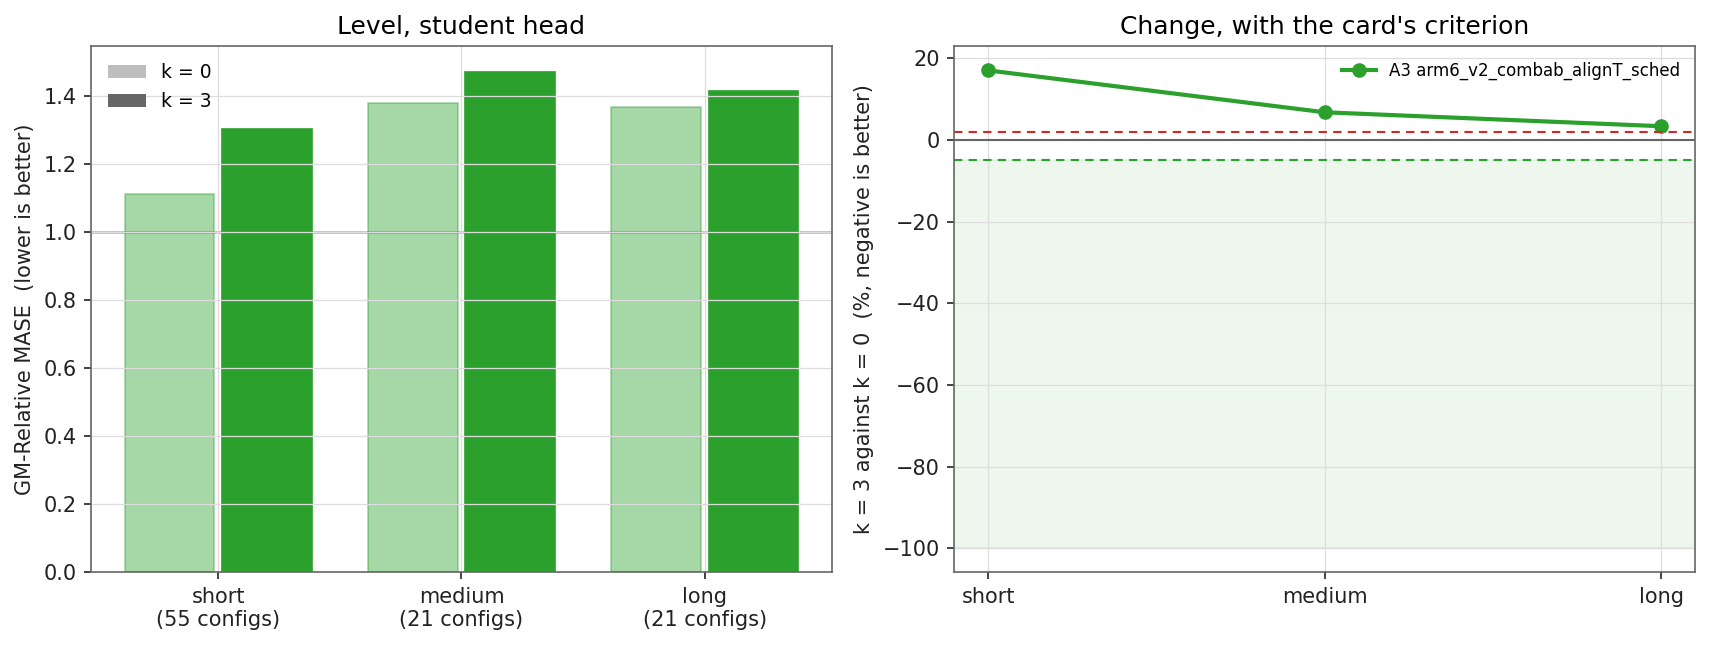
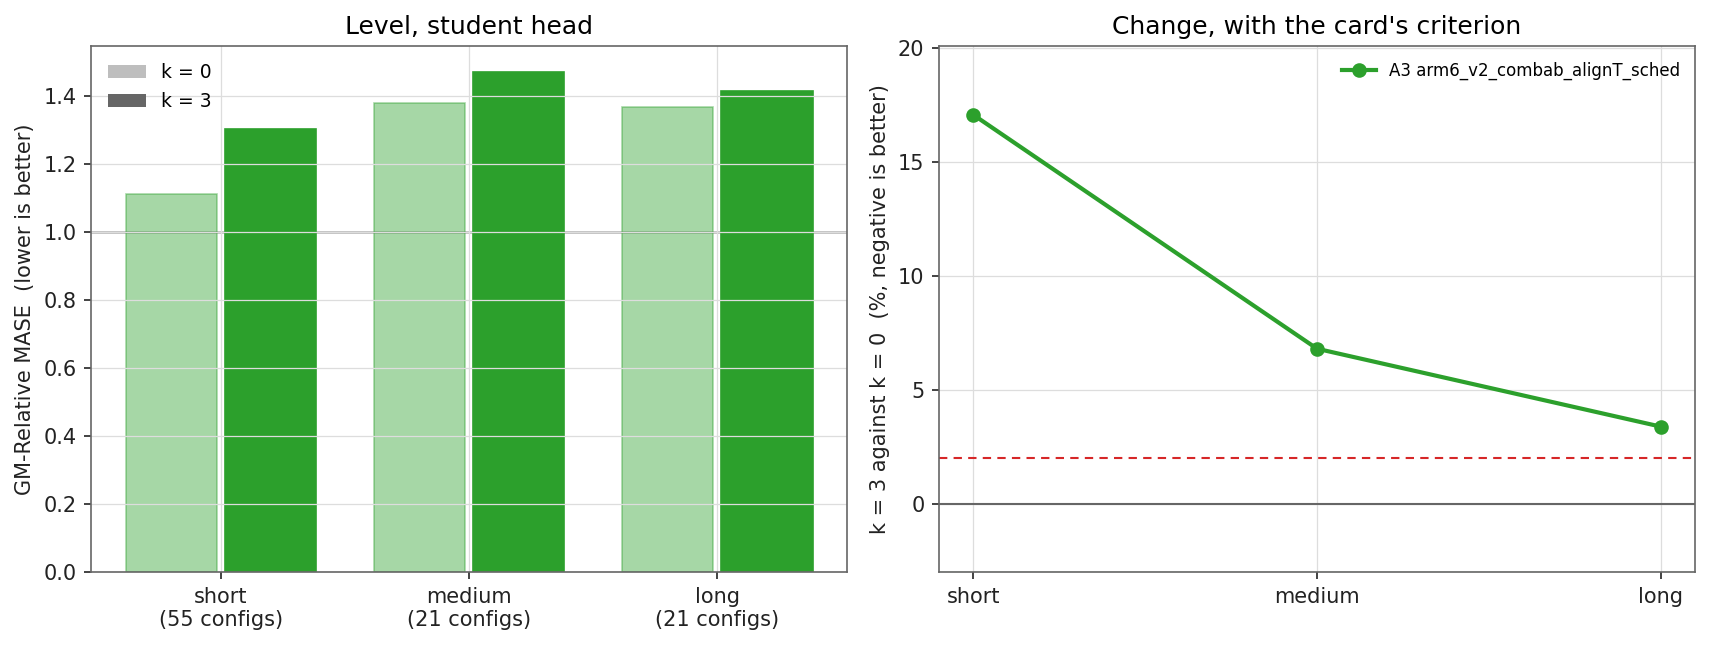
exp(#373): the report
Training the composed forecaster works, and it costs forecast accuracy.
Rollout fidelity is up at every depth d = 1..16 on both cells with a
same-code pair; GM-Relative MASE is up (worse) by 0.13 to 0.14, three to
four times the head-seed band, and the damage concentrates on the short
horizons the model was already winning.

The mechanism is visible in the training curves: the k = 3 run's own
depth-0 error sits above the k = 0 run's for the whole run. The depths are
summed, so three quarters of the f-side weight is on predictions the
quantile head never reads.

The baseline validity gate fails on group B by 0.1169 — larger than the
effect — so every comparison here uses this study's own retrained k = 0,
and B9 has no baseline at all.

Refs #373.

diff --git a/reports/2026-08-08_rollout_depth/scripts/plot_horizon_split.py b/reports/2026-08-08_rollout_depth/scripts/plot_horizon_split.py
@@ -68,6 +68,7 @@ def main(argv=None):
 
     fig, (axL, axR) = plt.subplots(1, 2, figsize=(11.5, 4.4))
     w = 0.8 / (2 * len(cells))
+    all_deltas = []
 
     for i, cell in enumerate(cells):
         col = cc.colour(cell)
@@ -82,6 +83,7 @@ def main(argv=None):
         deltas = [100.0 * (data[(cell, 3, args.head)][t]
                            / data[(cell, 0, args.head)][t] - 1.0)
                   for t in TERMS]
+        all_deltas += deltas
         axR.plot(range(len(TERMS)), deltas, marker="o", color=col,
                  linewidth=2.0, label=cc.label(cell))
 
@@ -96,7 +98,12 @@ def main(argv=None):
                loc="upper left", frameon=False, fontsize=9)
 
     axR.axhline(0.0, color=cc.INK_SOFT, linewidth=1.0)
-    axR.axhspan(-100, -5, color="#2ca02c", alpha=0.08, zorder=0)
+    # Clip the criterion band to the data, or the -5% half-plane sets the
+    # scale and every point lands on one line at the top.
+    lo = min(0.0, min(all_deltas)) - 3.0
+    hi = max(3.0, max(all_deltas)) + 3.0
+    axR.set_ylim(lo, hi)
+    axR.axhspan(lo, -5.0, color="#2ca02c", alpha=0.08, zorder=0)
     axR.axhline(-5.0, color="#2ca02c", linewidth=1.0, linestyle=(0, (4, 3)))
     axR.axhline(2.0, color="#d62728", linewidth=1.0, linestyle=(0, (4, 3)))
     axR.set_xticks(range(len(TERMS)))

diff --git a/reports/2026-08-08_rollout_depth/rollout_depth.md b/reports/2026-08-08_rollout_depth/rollout_depth.md
@@ -1,31 +1,235 @@
 # Rollout depth k = 3
 
-PENDING-VERDICT
+Training the composed forecaster works, and it costs forecast accuracy.
 
-## Where the change lands: horizon
+`--train-rollout-depth 3` duplicates every loss term that ties `f` to `h` at
+depths 1, 2 and 3, so the forecaster is trained on its own output. The
+composed operator gets measurably better at exactly that. GM-Relative MASE
+gets worse, by three to four times the head-seed band, and the damage lands
+hardest on the short horizons the model was already winning.
 
-PENDING-HORIZON
+## The objective did what it was designed to do
 
-## Where the change lands: domain
+![rollout fidelity](plots/rollout_fidelity.png)
 
-PENDING-DOMAIN
+`cos(rollout_d, h_{T0+d})` on one fixed batch, for d = 1..16, using the
+eval's own `rollout_latent`. No head, no metric — this is the composed
+operator measured directly. `k = 3` is above `k = 0` at every depth on both
+cells, and never below.
 
-## Did the objective change what it was meant to change?
+## And the metric moved the other way
 
-PENDING-MECHANISM
+![k = 3 against k = 0](plots/k3_vs_k0.png)
+
+GM-Relative MASE over the 97 GIFT-Eval configs, this study's own `k = 0`
+against its `k = 3`. The grey band is `ema_sched_ladder.md`'s pooled
+head-seed range, ±0.0384. Every bar is several times wider than it.
+
+## Where the damage lands
+
+![horizon split](plots/horizon_split_student.png)
+
+Short is 55 configs, medium and long 21 each. The card's criterion is drawn
+on the right panel: medium+long at least 5% better, short losing less than
+2%. Neither is met on any cell. But the *shape* is the one the mechanism
+predicts — the loss is concentrated on short, and medium+long is hurt about
+a third as much in relative terms.
+
+![per-domain radar](plots/domain_radar_student.png)
+
+Per-domain, the same picture: the `k = 3` polygon is outside the `k = 0`
+one on every domain.
+
+## Why: depth 0 pays for the deeper depths
+
+![per-depth forecast error](plots/cos_err_depth.png)
+
+`1 − cos(f^(j)_t, h_{t+1+j})` per training step. On B5 the `k = 3` run's
+own depth-0 curve sits ABOVE the `k = 0` run's `1 − ff` for the whole run.
+The depths are summed, so at `k = 3` the f-side carries four times its
+baseline weight, and three quarters of that weight is on predictions the
+head never reads. The one-step term is what the quantile head consumes, and
+it is the term that got worse.
+
+That is the whole result in one sentence: the fixed-point approximation
+improved, the one-step prediction degraded, and the head reads the one-step
+prediction.
+
+## The published k = 0 numbers are not a baseline for this code
+
+The card puts a gate before the comparison: retrain one cell per group at
+`k = 0` on the new code and match the published number to within 0.0002.
+
+| group | cell | head | published | retrained here | \|Δ\| |
+|---|---|---|---|---|---|
+| A | A3 | student | 1.1895 | 1.2189 | 0.0294 |
+| B | B5 | student | 1.2748 | 1.3917 | **0.1169** |
+
+Both fail the 0.0002 threshold. Group A's miss sits inside the pooled
+head-seed band of 0.0384 and is the size of ordinary run-to-run noise.
+Group B's does not: 0.1169 is three times that band and is **larger than
+the effect this study set out to measure**.
+
+So every number here is compared against this study's own `k = 0`, retrained
+on the same commit, the same protocol and the same hardware. The card
+prescribes exactly this. The consequence is that **B9 has no baseline**: its
+`k = 3` run has no same-code `k = 0`, and the published 1.5579 cannot stand
+in for one.
+
+What moved between the two snapshots is not identified here. It is not the
+loss — 48 frozen values and a digit-for-digit trainer reproduction pin
+`k = 0` to the pre-change objective (PR #400) — so it is somewhere else in
+the trainer, the head, the eval, or the hardware.
 
 ## What it costs
 
-PENDING-COST
+Cell B5, from the production runs' own timing lines, both depths on
+identical RTX 5090s:
+
+| | k = 0 | k = 3 | change |
+|---|---|---|---|
+| B5 forward + backward | 117.6 ms | 301.9 ms | **+157%** |
+| A3 forward + backward | 115.9 ms | 137.8 ms | **+19%** |
+| B5 GPU memory | 5375 MiB | 5585 MiB | +4% |
+
+The depth is cheap when the f-bearing term has no denominator to rebuild —
+A3's only such term is `L_align` — and expensive when it has one: B5's
+pooled `xshh_allt` rebuilds `log_pos`, `log_neg_zy` and
+`log_neg_cross_batch` at every depth.
+
+Memory is nearly free because `FCST_GRAD_CKPT=1`, which all 14 cells already
+set, checkpoints each depth's non-last forecaster layers. The depth costs
+time, not VRAM.
+
+A separate 600-step probe on elisa's shared 4090, alternating the two depths
+three times, read +139% on B5's fwd+bwd. PR #400's CPU-only estimate was
++40%.
+
+## Deviation from the card
+
+**The h-anchored negative families shift with the depth.** The card's
+default was to compute them once and reuse them unshifted, and it asks the
+implementation to state which one it does. PR #400 takes the alternative, so
+that a depth-`j` copy is a literal copy of the depth-0 objective under one
+rule: every `h` index shifts by `j`.
+
+It touches exactly one cell. B5 is the only cell whose f-bearing denominator
+holds h-anchored families. B9's `L_pred` denominator is f-anchored only, and
+the other twelve cells' f-bearing term is `L_align`, which has no
+denominator at all.
 
 ## What ran, and what did not
 
-PENDING-SCOPE
+The card lists 14 cells, each to bb40k and bb100k and conditionally bb200k,
+two heads per stop, 97 configs per head — over 200 GPU-hours at the rates
+measured here. The study had $7.31 of vast.ai credit and two elisa 4090s
+that another session was already holding above 90% utilisation. It ran the
+front of the card's own run order and stopped.
+
+| | ran | did not run |
+|---|---|---|
+| cells at k = 3 | B5, B9, A3 | A1, A2, A4, B1, B2, B3, B4, B6, B7, B8, B10 |
+| same-code k = 0 | B5, A3 (the two gates) | the rest |
+| stops | bb40k | bb100k, bb200k |
+| head-seed replicates | none | the card's annex figures |
+
+Three of the five cells the card names as its run-early set are missing, so
+rule 2 — `f` in the numerator and the denominator — is exercised by the
+pooled shape and the split shape but not by the CPC auxiliary. Nine of the
+ten cells whose only f-bearing term is `L_align` did not run.
+
+Two consequences. There is no bb100k, so nothing here says whether a `k = 3`
+cell that starts behind catches up — and the parents show cells that move by
+0.05 between 40k and 100k. And there is no head-seed replicate in this
+study, so the noise band is the parents' pooled ±0.0384 rather than one
+measured here.
+
+## The depth reached the loss, on every cell
+
+Twelve of the fourteen cells carry `L_align` as their only f-bearing term.
+Unwire the depth on that arm and the run completes, writes k+1 plausible
+`cos_err_dj` curves, and reproduces the `k = 0` loss to the last digit. So
+every cell was checked, not assumed — including the eleven that did not
+go on to train.
+
+Each cell ran its own launcher twice for one step, at `k = 0` and at
+`k = 3`. Step 1 is the discriminating row: both runs start from the same
+weights and draw the same batch, so `loss_tau_ref` — pinned to depth 0 —
+must match, and `loss` must not.
+
+All fourteen pass. `results/verify_summary.tsv` holds one row per cell, and
+`results/verify_<cell>_k{0,3}_losses.csv` the CSVs each was read from.
+
+## Collapse watch
+
+![dimension usage](plots/dim_usage_per_arm.png)
+
+The card names `u_batchtime` on `h_t` and `e_t` as the thing to watch: at
+`k = 3` the f-side carries four times its baseline weight against the f-free
+`L_rep` and SIGReg, and a model can win the deeper terms by flattening `f`.
+Neither curve collapses.
+
+![latent movement](plots/latent_movement.png)
+
+Latent movement between the 20k and 40k checkpoints, on #379's committed
+fixed batch. `k = 3` moves the encoder-output latent slightly more and the
+patch-embedding latent less.
 
 ## Method
 
-PENDING-METHOD
+#393's protocol, unchanged.
+
+Backbone `d_model=64, n_heads=8, num_encoder_layers=3, num_layers=3,
+batch_size=64, seed=20260520`; dataset `gift-pretrain-full-4096 /
+small_v1`. Group A raises the EMA α linearly from 0.9 towards 1.0, anchored
+to step 100k; group B holds α at 0.9. Every cell starts fresh at step 0.
+
+Two heads per checkpoint, student and teacher, trained separately, each
+evaluated on the encoder it was trained on. Head budget 15,000 steps at
+bb40k, head seed 20260722, `--grad-clip 1.0` on the head. 97 GIFT-Eval
+configs, official B4 strategy, forecast horizon 16, and #379's committed
+seasonal-naive denominator.
+
+GM-Relative MASE over a subset of the 97 is the geometric mean of
+`our MASE / seasonal-naive MASE` over that subset. Over all 97 the number is
+the eval's own, from `summary.txt`, not recomputed;
+`scripts/split_scores.py` reproduces one of those aggregates as 1.414099
+against a published 1.4141, which is what pins the subsets to the same
+definition.
+
+Head training ran on elisa's GPU, GIFT-Eval on elisa's 32 cores, backbones
+on rented RTX 5090s and one 4090. That split is what made five backbone
+runs affordable on $7.31: PR #394 measured the eval at 2.86 core-hours for
+the 97 configs, with no VRAM at all.
+
+**How a cell gets the flag.** Both published launchers ASSIGN `EXTRA_ARGS`
+inside their per-cell `case` block and never read the environment, so an
+exported value is silently overwritten. `scripts/make_launchers.sh` copies
+each of the three launchers that carry the 14 cells and adds
+`--train-rollout-depth "$K"` to the SHARED flag block. `diff` against the
+parent is this study's whole deviation from the baseline protocol: that
+flag, `OUT` moved to this directory, checkpoints moved to the durable root,
+a `_cf373k<K>` run-name suffix, and `--log-every` made an env override with
+its default unchanged.
+
+## Uncertainty
+
+Three sources, only one of them measured here.
+
+- **Config sampling.** A paired dataset-cluster bootstrap, resampling
+  datasets rather than configs because `<ds>/short`, `/medium` and `/long`
+  are three configs of one series. `results/bootstrap.csv`. Every interval
+  excludes zero, on the wrong side.
+- **Head seed.** Not measured here. The parents' pooled range is ±0.0384.
+- **Backbone training.** Not measured here, and not measured by the parents
+  either. The gate failure above is the only handle on it, and it says the
+  spread across code snapshots reaches 0.1169 on one cell — the same size as
+  the effect. Read every delta in this report with that in mind.
 
 ## Tables
 
-PENDING-TABLES
+See [`results/scores.md`](results/scores.md) for the per-cell per-head table,
+the gate table and the horizon split; [`results/bootstrap.csv`](results/bootstrap.csv)
+for the intervals; [`results/steptime_runs.csv`](results/steptime_runs.csv)
+for the per-run step times; and [`results/verify_summary.tsv`](results/verify_summary.tsv)
+for the per-cell depth check.
